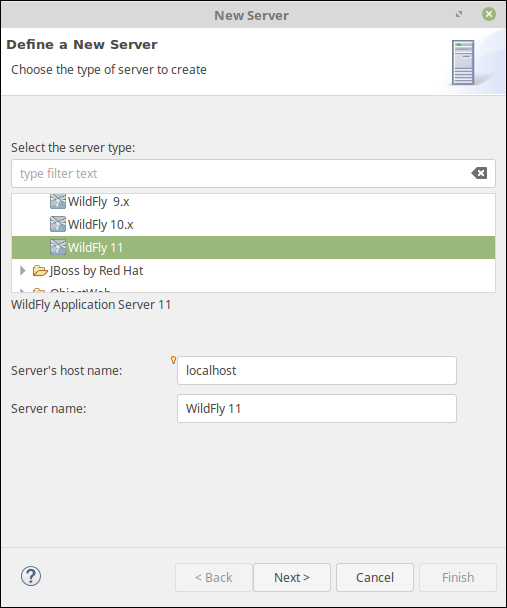
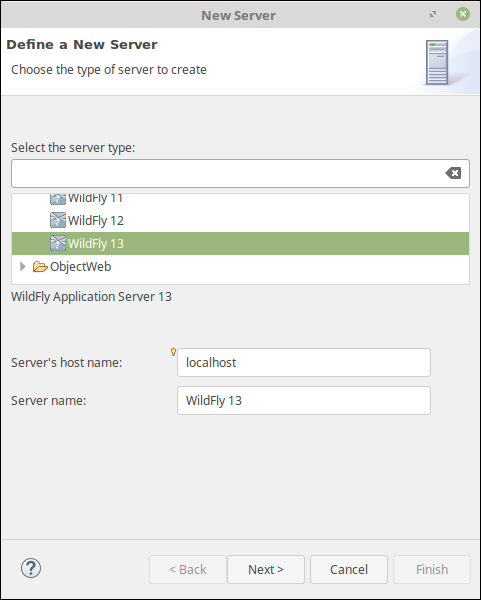
passage à Wildfly 13 et Servlet 4.0

diff --git a/source/javaee_web/environnement_developpement.rst b/source/javaee_web/environnement_developpement.rst
@@ -31,7 +31,7 @@ La liste des outils requis est :
 
 **Eclipse IDE for Java EE Web Developpers**
     | L'environnement de développement
-    | http://www.eclipse.org/downloads/packages/eclipse-ide-java-ee-developers/oxygen2
+    | http://www.eclipse.org/downloads/packages/release/photon/r/eclipse-ide-java-ee-developers
 
     Il existe plusieurs distributions d'Eclipse. Il est impératif
     d'installer **la version pour le développement Java EE**. Si vous
@@ -41,8 +41,8 @@ La liste des outils requis est :
 
 **Wildfly**
     | Le serveur d'application Java EE Wildfly (anciennement JBoss Application Server)
-    | Windows : http://download.jboss.org/wildfly/11.0.0.Final/wildfly-11.0.0.Final.zip
-    | MacOS et Linux : http://download.jboss.org/wildfly/11.0.0.Final/wildfly-11.0.0.Final.tar.gz
+    | Windows : http://download.jboss.org/wildfly/13.0.0.Final/wildfly-13.0.0.Final.zip
+    | MacOS et Linux : http://download.jboss.org/wildfly/13.0.0.Final/wildfly-13.0.0.Final.tar.gz
 
     Nous verrons bientôt que les applications Java EE ne sont pas des
     programmes indépendants (standalone). Les applications Java EE sont
@@ -122,7 +122,7 @@ license Red Hat. Attention il faut attendre un peu avant que l'installation soit
 effective et il vous faudra redémarrer Eclipse.
 
 Vous pouvez maintenant créer un serveur Wildfly en sélectionnant
-:guilabel:`JBoss Community > Wildfly 11`. 
+:guilabel:`JBoss Community > Wildfly 13`.
 
 |Ajout d'un serveur dans Eclipse|
 
@@ -169,9 +169,9 @@ Puis répondez aux questions pour créer une utilisation admin :
     Enter the details of the new user to add.
     Using realm 'ManagementRealm' as discovered from the existing property files.
     Username : admin
-    User 'admin' already exists and is enabled, would you like to... 
+    User 'admin' already exists and is disabled, would you like to... 
      a) Update the existing user password and roles 
-     b) Disable the existing user 
+     b) Enable the existing user 
      c) Type a new username
     (a): a
     Password recommendations are listed below. To modify these restrictions edit the add-user.properties configuration file.
@@ -183,10 +183,10 @@ Puis répondez aux questions pour créer une utilisation admin :
     Are you sure you want to use the password entered yes/no? yes
     Re-enter Password : 
     What groups do you want this user to belong to? (Please enter a comma separated list, or leave blank for none)[  ]: 
-    Updated user 'admin' to file '/home/david/bin/wildfly-11.0.0.Final/standalone/configuration/mgmt-users.properties'
-    Updated user 'admin' to file '/home/david/bin/wildfly-11.0.0.Final/domain/configuration/mgmt-users.properties'
-    Updated user 'admin' with groups  to file '/home/david/bin/wildfly-11.0.0.Final/standalone/configuration/mgmt-groups.properties'
-    Updated user 'admin' with groups  to file '/home/david/bin/wildfly-11.0.0.Final/domain/configuration/mgmt-groups.properties'
+    Updated user 'admin' to file '/home/david/bin/wildfly-13.0.0.Final/standalone/configuration/mgmt-users.properties'
+    Updated user 'admin' to file '/home/david/bin/wildfly-13.0.0.Final/domain/configuration/mgmt-users.properties'
+    Updated user 'admin' with groups  to file '/home/david/bin/wildfly-13.0.0.Final/standalone/configuration/mgmt-groups.properties'
+    Updated user 'admin' with groups  to file '/home/david/bin/wildfly-13.0.0.Final/domain/configuration/mgmt-groups.properties'
     Is this new user going to be used for one AS process to connect to another AS process? 
     e.g. for a slave host controller connecting to the master or for a Remoting connection for server to server EJB calls.
     yes/no? yes

diff --git a/source/javaee_web/servlet.rst b/source/javaee_web/servlet.rst
@@ -6,8 +6,8 @@ une requête entrante sur un serveur et de générer une réponse dynamique.
 La plupart du temps, les servlets sont utilisées pour traiter des
 requêtes HTTP et générer dynamiquement une réponse.
 
-L'API **servlet** est définie par la spécification JSR-340_ et la version 
-actuelle est la 3.1.
+L'API **servlet** est définie par la spécification JSR-000369_ et la version 
+actuelle est la 4.0.
 
 Structure d'une servlet HTTP
 ****************************
@@ -275,11 +275,10 @@ précise un ou des motifs d'URL pour cette servlet de la façon suivante :
 .. code-block :: xml
 
     <web-app 
-      xmlns="https://java.sun.com/xml/ns/javaee" 
-      xmlns:xsi="https://www.w3.org/2001/XMLSchema-instance"
-      xsi:schemaLocation="https://java.sun.com/xml/ns/javaee 
-                          https://java.sun.com/xml/ns/javaee/web-app_3_0.xsd"
-      version="3.0">
+        xmlns:xsi="http://www.w3.org/2001/XMLSchema-instance" 
+        xmlns="http://xmlns.jcp.org/xml/ns/javaee" 
+        xsi:schemaLocation="http://xmlns.jcp.org/xml/ns/javaee http://xmlns.jcp.org/xml/ns/javaee/web-app_4_0.xsd" 
+        version="4.0">
       
       <!-- la déclaration de la servlet -->
       <servlet>
@@ -381,7 +380,7 @@ Exercice
         L'intégration du projet dans Eclipse suit la même procédure que
         celle vue dans :ref:`maven_eclipse_import`
 
-.. _JSR-340: https://jcp.org/aboutJava/communityprocess/final/jsr340/index.html
+.. _JSR-000369: https://jcp.org/aboutJava/communityprocess/final/jsr369/index.html
 .. _javax.servlet.http.HttpServlet: https://docs.oracle.com/javaee/7/api/javax/servlet/http/HttpServlet.html
 .. _HttpServlet: https://docs.oracle.com/javaee/7/api/javax/servlet/http/HttpServlet.html
 .. _javax.servlet.http.HttpServletRequest: https://docs.oracle.com/javaee/7/api/javax/servlet/http/HttpServletRequest.html

diff --git a/source/javaee_web/maven.rst b/source/javaee_web/maven.rst
@@ -382,9 +382,9 @@ Exercice
                 <plugin>
                     <groupId>org.wildfly.plugins</groupId>
                     <artifactId>wildfly-maven-plugin</artifactId>
-                    <version>1.2.1.Final</version>
+                    <version>1.2.2.Final</version>
                     <configuration>
-                        <version>11.0.0.Final</version>
+                        <version>13.0.0.Final</version>
                     </configuration>
                 </plugin>
             </plugins>
